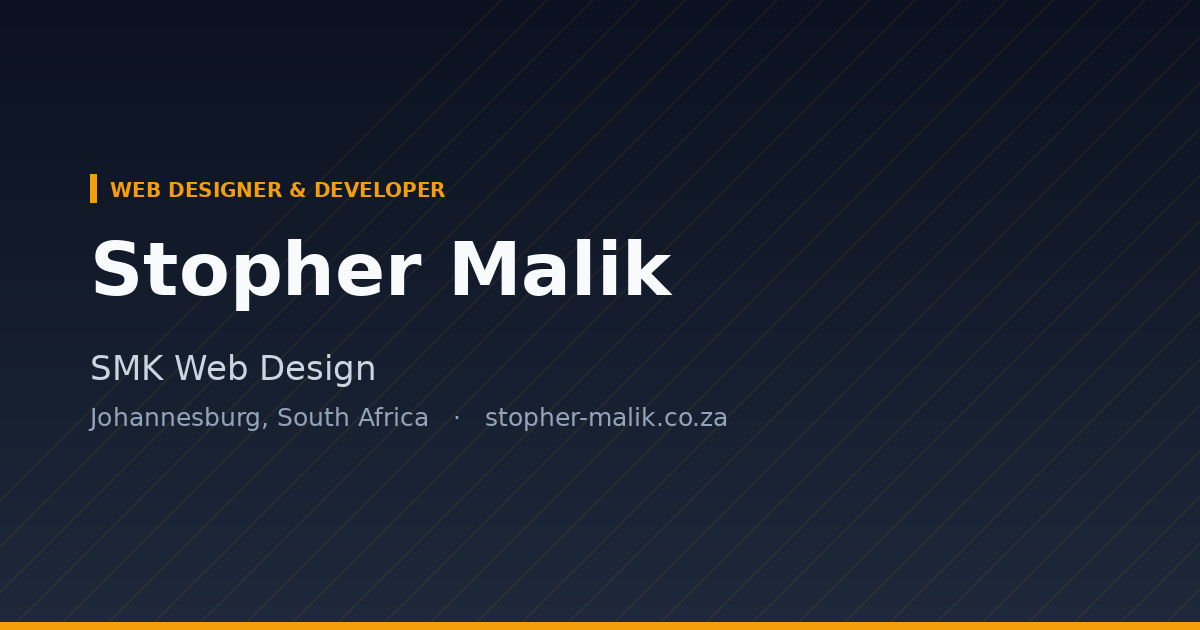
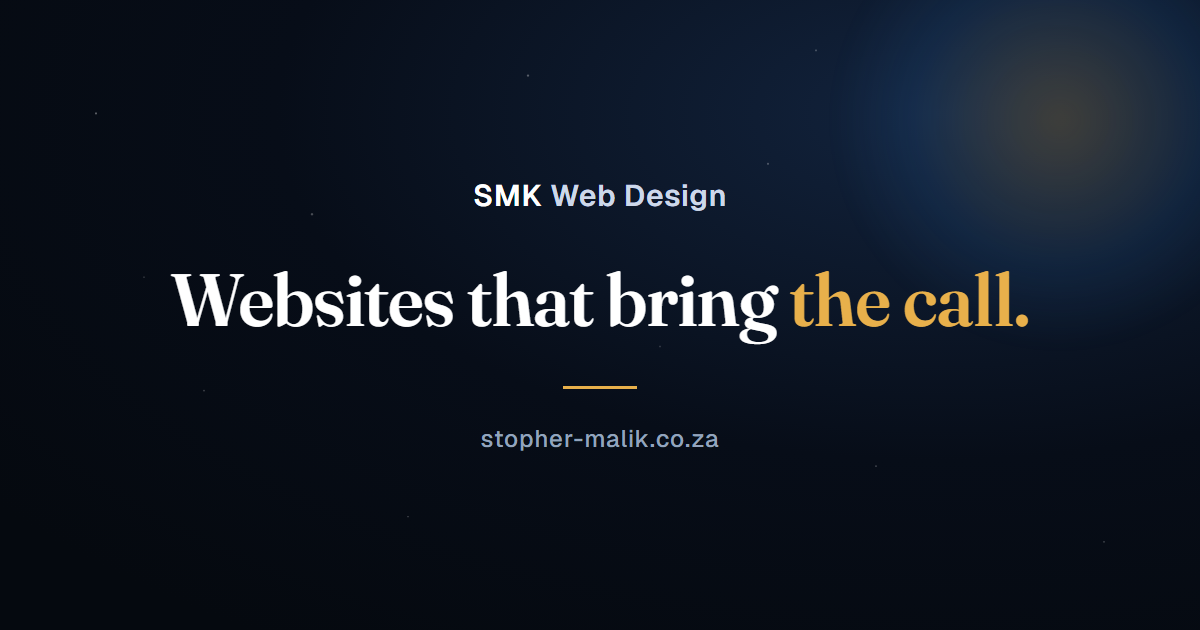
feat: replace OG card and swap portrait to 55KB WebP (SEO-05)
- public/assets/og-image-1200x630.png: new branded card carrying the stopher-malik.co.za domain line (same design language as SMK's).
- Portrait 1,382,062 -> 55,274 bytes WebP (Nav avatar + About page refs swapped); this copy of the asset was missed by the audit but had the identical weight problem. Old .png deleted.
- Files: public/assets/og-image-1200x630.png, public/assets/stopher-portrait.{png,webp}, src/components/layout/Nav.tsx, src/app/about/AboutPage.tsx

Verified: next lint 0 errors; next build 68/68; out/ has 1200x630 OG, portrait.webp present, 0 stale .png refs in built HTML.

diff --git a/src/components/layout/Nav.tsx b/src/components/layout/Nav.tsx
@@ -96,7 +96,7 @@ export function Nav() {
       <div className="container nav__inner" role="navigation" aria-label="Main navigation">
         <Link href="/" className="nav__profile" aria-label="Stopher Malik - Home">
           <div className="nav__avatar nav__avatar--portrait" aria-hidden="true">
-            <img src="/assets/stopher-portrait.png" alt="" width="56" height="56" />
+            <img src="/assets/stopher-portrait.webp" alt="" width="56" height="56" />
           </div>
           <div className="nav__identity">
             <span className="nav__name">Stopher Malik</span>

diff --git a/src/app/about/AboutPage.tsx b/src/app/about/AboutPage.tsx
@@ -41,7 +41,7 @@ export function AboutPage() {
                 flexShrink: 0
               }}>
                 <img
-                  src="/assets/stopher-portrait.png"
+                  src="/assets/stopher-portrait.webp"
                   alt="Stopher Malik — Web Designer & Developer, Johannesburg"
                   fetchPriority="high"
                   decoding="async"
